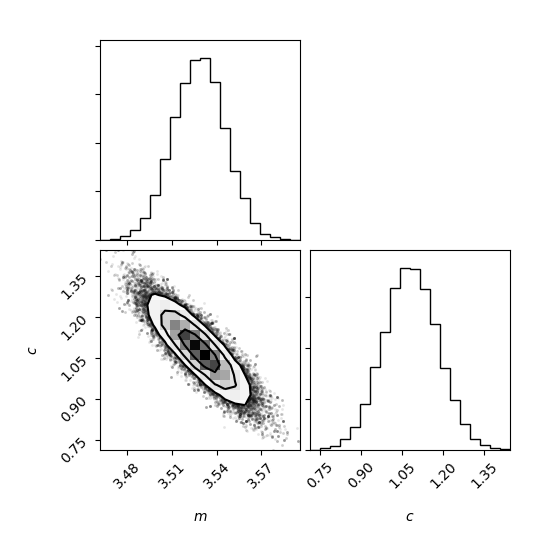
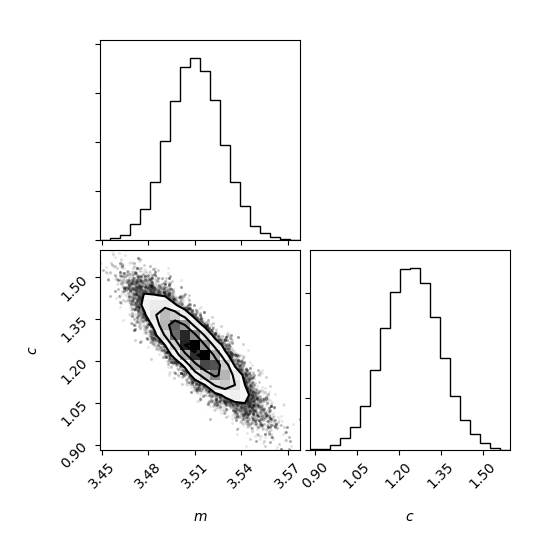
more general bounds

diff --git a/emcee/emceeFitLine.py b/emcee/emceeFitLine.py
@@ -38,7 +38,10 @@ sigma = 0.5
 data = theory(x, m, c) + sigma*np.random.randn(M)
 
 nDims = 2
-
+# bounds = [bounds_par1, bounds_par2, ...]
+# bounds is list of lists
+#m c
+bounds = [[0.0,5.0], [-10.0,10.0]]
 ##########
 
 def logposterior(theta):
@@ -67,10 +70,10 @@ def loglikelihood(theta):
     m, c = theta
     
     # evaluate the model (assumes that the straight_line model is defined as above)
-    md = theory(x, m, c)
+    th = theory(x, m, c)
     
     # return the log likelihood
-    return -0.5*np.sum(((md - data)/sigma)**2)
+    return -0.5*np.sum(((th - data)/sigma)**2)
 
 # bounds = [[], []]
 
@@ -88,15 +91,23 @@ def logprior(theta):
     lp = 0.
     
     # unpack the model parameters from the tuple
-    m, c = theta
+    # m, c = theta
     
     # uniform prior on c
     cmin = -10. # lower range of prior
     cmax = 10.  # upper range of prior
     
     # set prior to 1 (log prior to 0) if in the range and zero (-inf) outside the range 
-    if cmin < c < cmax and 0 < m < 5.0:
+    for i in range(len(bounds)):
+    	if bounds[i][0] < theta[i] < bounds[i][1]:
+    		flag = True
+    	else:
+    		flag = False
+    #if bounds[0][0] < theta[0] < bounds[0][1] and bounds[1][0] < theta[1] < bounds[1][1]:
+    #if bounds[0][0] < theta[0] < bounds[0][1] and -bounds[1][0] < theta[1] < bounds[1][1:
+    if flag == True:
     	return 0.0
+
     return -np.inf
     
     # Gaussian prior on m
